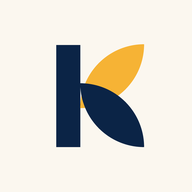
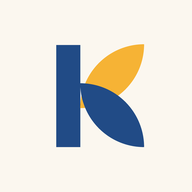
隔月を「毎月ならす／請求の月にまとめて」から選べるようにし、紺を明るくした
- 固定費に spread を追加。既定は「毎月ならす」で、2か月ごと 10,000円なら
  毎月 5,000円として記録する。年平均で登録している物の見込みがぶれない
- 「請求の月にまとめて」を選ぶと、これまでどおり来る月だけ全額を入れる
- 一覧の金額は毎月いくら入るかを出し、割っている時は /月 を添える
- iPhone のホーム画面が暗いとアイコンの紺が黒に埋もれるため、ブランドの紺を
  #0B2446 から #214B86 に変更（アプリ全体・アイコン・ウィジェット）
  黒との差 1.36→2.42、本文のコントラストは 8.14 で AAA のまま

Claude-Session: https://claude.ai/code/session_012fVTSqPeNLMUxA1MEA8w81

Changed region(s): [[0.2812, 0.2188, 0.75, 0.7812]]

diff --git a/js/screens/kakeiboSettings.js b/js/screens/kakeiboSettings.js
@@ -15,7 +15,7 @@ import { listBudgets, setBudget } from '../data/budgetRepo.js';
 import { listFixedCosts, getFixedCost, saveFixedCost, deleteFixedCost, countGeneratedRows, applyToMonth } from '../data/fixedCostRepo.js';
 import { getMeta, setMeta, META } from '../data/metaRepo.js';
 import { rawBudget, validateBudgetAmount, PALETTE_SIZE } from '../domain/kakeibo.js';
-import { averageAmount, SAMPLE_MONTHS, CYCLES, cycleOf, cycleLabel } from '../domain/fixedCost.js';
+import { averageAmount, SAMPLE_MONTHS, CYCLES, cycleOf, cycleLabel, spreadOf, spreadLabel, monthlyAmount } from '../domain/fixedCost.js';
 import { thisMonth } from '../domain/plans.js';
 import { ValidationError } from '../data/productRepo.js';
 import { makeSortable, dragHandle } from '../ui/sortable.js';
@@ -115,10 +115,16 @@ export async function openKakeiboSettings(month = thisMonth()) {
                     <button type="button" class="row-button" data-fixed="${f.id}">
                       <span class="kb-dot" style="background:var(--swatch-${(f.colorIndex ?? 0) + 1})"></span>
                       <span class="grow kb-name">${esc(f.name)}${f.endMonth ? `<span class="badge badge-muted">${t('終了')}</span>` : ''}
-                        <span class="kb-memo">${[cycleLabel(f) && t(cycleLabel(f)), f.dayOfMonth ? t('{d}日', { d: f.dayOfMonth }) : t('月初')]
+                        <span class="kb-memo">${[
+                          cycleLabel(f) && t(cycleLabel(f)),
+                          spreadLabel(f) && t(spreadLabel(f)),
+                          f.dayOfMonth ? t('{d}日', { d: f.dayOfMonth }) : t('月初'),
+                        ]
                           .filter(Boolean)
                           .join(t('・'))}</span></span>
-                      <span class="kb-amount">${f.type === 'income' ? '+' : ''}${money(f.amount)}</span>
+                      <span class="kb-amount">${f.type === 'income' ? '+' : ''}${money(monthlyAmount(f))}${
+                        monthlyAmount(f) !== f.amount ? `<small class="kb-per">${t('/月')}</small>` : ''
+                      }</span>
                     </button>
                   </li>`
                 )
@@ -229,6 +235,7 @@ export async function openFixedCostSheet(id, month, onSaved) {
     colorIndex: 0,
     samples: {},
     everyMonths: 1,
+    spread: true,
     dayOfMonth: '',
     startMonth: thisMonth(),
     endMonth: null,
@@ -267,7 +274,15 @@ export async function openFixedCostSheet(id, month, onSaved) {
               (c) => `<option value="${c.months}" ${cycleOf(v) === c.months ? 'selected' : ''}>${t(c.label)}</option>`
             ).join('')}
           </select>
-          <p class="sheet-lead">${t('水道代のように隔月の物は、ここで間隔を選びます。「いつから」の月が基準になります。')}</p>
+          <p class="sheet-lead">${t('水道代のように隔月の物は、ここで間隔を選びます。')}</p>
+        </div>
+        <div class="field" data-spread ${cycleOf(v) === 1 ? 'hidden' : ''}>
+          <label id="spread-label">${t('入れ方')}</label>
+          <div class="segmented" role="radiogroup" aria-labelledby="spread-label">
+            <button type="button" role="radio" data-spread-btn="1" aria-checked="${String(spreadOf(v))}">${t('毎月ならす')}</button>
+            <button type="button" role="radio" data-spread-btn="0" aria-checked="${String(!spreadOf(v))}">${t('請求の月にまとめて')}</button>
+          </div>
+          <p class="sheet-lead" data-spread-note></p>
         </div>
         <div class="field">
           <label for="f-day">${t('引き落とし日')} <span class="optional">${t('任意')}</span></label>
@@ -318,6 +333,31 @@ export async function openFixedCostSheet(id, month, onSaved) {
   const pad = bindCalcField(sheet.el, 'amount');
   const typeInput = form.elements.namedItem('type');
   const endBox = form.querySelector('[data-end]');
+  const spreadBox = form.querySelector('[data-spread]');
+  const spreadNote = form.querySelector('[data-spread-note]');
+  let spread = spreadOf(v);
+
+  /** 間隔と入れ方に合わせて、説明と出し入れを直す */
+  function paintSpread() {
+    const every = cycleOf({ everyMonths: form.elements.namedItem('everyMonths').value });
+    spreadBox.hidden = every === 1;
+    form.querySelectorAll('[data-spread-btn]').forEach((b) => b.setAttribute('aria-checked', String((b.dataset.spreadBtn === '1') === spread)));
+    const amount = Number(pad.value) || 0;
+    spreadNote.textContent = spread
+      ? t('{total}を{n}か月に分けて、毎月{each}として入れます', {
+          total: money(amount),
+          n: every,
+          each: money(Math.round(amount / Math.max(1, every))),
+        })
+      : t('請求が来る月にだけ{total}を入れます。「いつから」の月が基準です', { total: money(amount) });
+  }
+  form.elements.namedItem('everyMonths').addEventListener('change', paintSpread);
+  form.querySelectorAll('[data-spread-btn]').forEach((b) =>
+    b.addEventListener('click', () => {
+      spread = b.dataset.spreadBtn === '1';
+      paintSpread();
+    })
+  );
 
   form.querySelectorAll('[data-kind]').forEach((b) =>
     b.addEventListener('click', () => {
@@ -337,8 +377,10 @@ export async function openFixedCostSheet(id, month, onSaved) {
     openAverageSheet(samples, (next, average) => {
       samples = next;
       pad.reset(String(average));
+      paintSpread();
     });
   });
+  paintSpread();
 
   form.addEventListener('submit', async (e) => {
     e.preventDefault();
@@ -351,6 +393,7 @@ export async function openFixedCostSheet(id, month, onSaved) {
         colorIndex: color,
         samples,
         everyMonths: g('everyMonths'),
+        spread,
         dayOfMonth: g('dayOfMonth'),
         startMonth: `${g('startYear')}-${g('startMon')}`,
         ended: form.elements.namedItem('ended').checked,

diff --git a/js/domain/fixedCost.js b/js/domain/fixedCost.js
@@ -22,6 +22,23 @@ export const CYCLES = [
   { months: 12, label: '1年ごと' },
 ];
 
+/**
+ * 隔月などの入れ方。
+ *   true （既定）… **毎月ならして**入れる。2か月ごと 10,000円なら毎月 5,000円。
+ *                   毎月の「使っていいお金」がぶれないので、年平均で登録している物に向く
+ *   false        … 請求が来た月にまとめて入れる。実際の引き落としと同じ形になる
+ */
+export function spreadOf(fc) {
+  return fc?.spread !== false;
+}
+
+/** その月の記録に入れる金額（ならす時は間隔で割る） */
+export function monthlyAmount(fc) {
+  const every = cycleOf(fc);
+  const amount = Number(fc?.amount) || 0;
+  return every > 1 && spreadOf(fc) ? Math.round(amount / every) : amount;
+}
+
 /** 間隔の数（指定が無い・おかしい時は毎月） */
 export function cycleOf(fc) {
   const n = Math.floor(Number(fc?.everyMonths));
@@ -34,6 +51,12 @@ export function cycleLabel(fc) {
   return n === 1 ? '' : (CYCLES.find((c) => c.months === n)?.label ?? '');
 }
 
+/** 入れ方の言い方（毎月の時は空） */
+export function spreadLabel(fc) {
+  if (cycleOf(fc) === 1) return '';
+  return spreadOf(fc) ? '毎月ならす' : '請求の月にまとめて';
+}
+
 /**
  * その月に有効な固定費か。
  * 隔月などは「いつから」の月から数えて、間隔の倍数の月だけ有効にする
@@ -42,7 +65,8 @@ export function isActiveIn(fc, month) {
   if (fc.startMonth && month < fc.startMonth) return false;
   if (fc.endMonth && month > fc.endMonth) return false;
   const every = cycleOf(fc);
-  if (every > 1 && fc.startMonth) {
+  // ならして入れる時は毎月が対象（金額を間隔で割って入れる）
+  if (every > 1 && !spreadOf(fc) && fc.startMonth) {
     const diff = monthsBetween(fc.startMonth, month);
     if (diff < 0 || diff % every !== 0) return false;
   }
@@ -103,7 +127,7 @@ export function rowsToCreate(fixedCosts, existing, month, createdAt) {
     .map((fc) => ({
       id: fixedRowId(fc.id, month),
       type: fc.type === 'income' ? 'income' : 'expense',
-      amount: Number(fc.amount) || 0,
+      amount: monthlyAmount(fc),
       date: dateInMonth(month, fc.dayOfMonth),
       categoryId: null, // 固定費はカテゴリを持たない（固定費の名前と色でまとめて見せる）
       memo: '',
@@ -169,8 +193,22 @@ export function validateFixedCostInput(raw, thisMonthValue) {
   const colorIndex = Number.isFinite(Number(raw.colorIndex)) ? Number(raw.colorIndex) : 0;
   const samples = raw.samples && typeof raw.samples === 'object' ? raw.samples : {};
   const everyMonths = cycleOf({ everyMonths: raw.everyMonths });
+  const spread = raw.spread === undefined ? true : !!raw.spread && raw.spread !== 'false';
   return {
     ok: true,
-    value: { type, name, amount, categoryId: null, colorIndex, samples, everyMonths, dayOfMonth, startMonth, endMonth, memo },
+    value: {
+      type,
+      name,
+      amount,
+      categoryId: null,
+      colorIndex,
+      samples,
+      everyMonths,
+      spread,
+      dayOfMonth,
+      startMonth,
+      endMonth,
+      memo,
+    },
   };
 }

diff --git a/js/i18n/en/kakeibo.js b/js/i18n/en/kakeibo.js
@@ -196,7 +196,13 @@ export default {
   '3か月ごと': 'Every 3 months',
   '6か月ごと': 'Every 6 months',
   '1年ごと': 'Once a year',
-  '水道代のように隔月の物は、ここで間隔を選びます。「いつから」の月が基準になります。': 'For things paid every other month, such as water, choose the interval here. It is counted from the starting month.',
+  入れ方: 'How to record it',
+  毎月ならす: 'Spread over every month',
+  請求の月にまとめて: 'All in the billing month',
+  '/月': '/mo',
+  '{total}を{n}か月に分けて、毎月{each}として入れます': 'Splits {total} over {n} months and records {each} each month',
+  '請求が来る月にだけ{total}を入れます。「いつから」の月が基準です': 'Records {total} only in the billing months, counted from the starting month',
+  '水道代のように隔月の物は、ここで間隔を選びます。': 'For things paid every other month, such as water, choose the interval here.',
   // 入力の検証
   '1〜31の日を選んでください': 'Choose a day from 1 to 31',
   始まりの月より後にしてください: 'Must be after the starting month',

diff --git a/js/domain/backupFormat.js b/js/domain/backupFormat.js
@@ -106,13 +106,15 @@ const RULES = {
               ? 'colorIndex'
               : !isNumOrNone(r.everyMonths)
                 ? 'everyMonths'
-                : !(r.samples === undefined || (r.samples && typeof r.samples === 'object'))
-                  ? 'samples'
-                  : !isMonth(r.startMonth)
-                    ? 'startMonth'
-                    : !isMonth(r.endMonth)
-                      ? 'endMonth'
-                      : null,
+                : !isBoolOrNone(r.spread)
+                  ? 'spread'
+                  : !(r.samples === undefined || (r.samples && typeof r.samples === 'object'))
+                    ? 'samples'
+                    : !isMonth(r.startMonth)
+                      ? 'startMonth'
+                      : !isMonth(r.endMonth)
+                        ? 'endMonth'
+                        : null,
   budgets: (r) => (!isAmount(r.amount) ? 'amount' : !isMonth(r.month) ? 'month' : !isStrOrNull(r.categoryId) ? 'categoryId' : null),
   priceRecords: (r) =>
     !isStr(r.productId)

diff --git a/css/base.css b/css/base.css
@@ -1,12 +1,12 @@
 /* 色・余白などの基本設定。色を変えたいときはここの変数だけ変える
-   既定の配色は KESELA のブランド色（紺 #0B2446 ／ 黄 #F6B335 ／ クリーム #FBF7EF） */
+   既定の配色は KESELA のブランド色（紺 #214B86 ／ 黄 #F6B335 ／ クリーム #FBF7EF） */
 :root {
   --bg: #fbf7ef;
   --surface: #ffffff;
-  --text: #0b2446;
+  --text: #214b86;
   --text-sub: #5f6e85;
   --border: #e7dfd1;
-  --accent: #0b2446;        /* 主要ボタン・選択中タブ（ブランドの紺） */
+  --accent: #214b86;        /* 主要ボタン・選択中タブ（ブランドの紺） */
   --accent-soft: #e8edf4;
   --danger: #b4382c;
   --warn-soft: #fdf0d5;
@@ -59,7 +59,7 @@
     --warn-soft: #3d3420;
     --warn-text: #f0c46b;
     --warn-bar: #e09b2e;
-    --on-accent: #0b2446;
+    --on-accent: #214b86;
   }
 }
 

diff --git a/css/themes.css b/css/themes.css
@@ -1,8 +1,8 @@
 /* テーマ（設定で選ぶ）。html の data-theme 属性で切り替える。未設定＝端末の明暗に合わせる（ブランド色） */
 :root[data-theme="kesela"] { /* KESELA（ブランド。常に明るい配色） */
   color-scheme: light;
-  --bg: #fbf7ef; --surface: #ffffff; --text: #0b2446; --text-sub: #5f6e85; --border: #e7dfd1;
-  --accent: #0b2446; --accent-soft: #e8edf4; --on-accent: #fbf7ef; --danger: #b4382c;
+  --bg: #fbf7ef; --surface: #ffffff; --text: #214b86; --text-sub: #5f6e85; --border: #e7dfd1;
+  --accent: #214b86; --accent-soft: #e8edf4; --on-accent: #fbf7ef; --danger: #b4382c;
   --warn-soft: #fdf0d5; --warn-text: #8a5a00; --warn-bar: #f6b335;
 }
 :root[data-theme="wakaba"] { /* 若葉 */

diff --git a/index.html b/index.html
@@ -5,7 +5,7 @@
   <meta name="viewport" content="width=device-width, initial-scale=1, viewport-fit=cover">
   <title>KESELA</title>
   <meta name="theme-color" content="#FBF7EF" media="(prefers-color-scheme: light)">
-  <meta name="theme-color" content="#0B2446" media="(prefers-color-scheme: dark)">
+  <meta name="theme-color" content="#0b1b33" media="(prefers-color-scheme: dark)">
 
   <!-- ホーム画面に追加したときの設定（iPhone） -->
   <link rel="manifest" href="manifest.webmanifest">

diff --git a/sw.js b/sw.js
@@ -3,7 +3,7 @@
 // そのため、ファイルを更新したときにキャッシュが原因で古い画面が出る、ということが起きにくい。
 
 // 版は node tools/release.mjs <版> で js/lib/version.js と一緒に上げる（APP_FILES もそのコマンドで作り直す）
-const CACHE = 'kesela-1.16.1';
+const CACHE = 'kesela-1.16.2';
 
 // オフラインでも開けるように最初に保存しておくファイル
 const APP_FILES = [

diff --git a/css/components.css b/css/components.css
@@ -1191,3 +1191,4 @@ input[type="date"]::-webkit-date-and-time-value { text-align: left; }
 }
 .icon-pick img { border-radius: 13px; display: block; }
 .icon-pick button[aria-checked="true"] { border-color: var(--accent); }
+.kb-per { margin-left: 1px; font-size: var(--fz-sub); font-weight: 400; color: var(--text-sub); }

diff --git a/js/ui/themeList.js b/js/ui/themeList.js
@@ -4,7 +4,7 @@ export const THEMES = [
     "key": "kesela",
     "label": "KESELA",
     "bg": "#fbf7ef",
-    "accent": "#0b2446",
+    "accent": "#214b86",
     "surface": "#ffffff"
   },
   {

diff --git a/js/lib/version.js b/js/lib/version.js
@@ -1,2 +1,2 @@
 // アプリの版。node tools/release.mjs <版> で sw.js の CACHE 名と一緒に上げる
-export const APP_VERSION = '1.16.1';
+export const APP_VERSION = '1.16.2';
